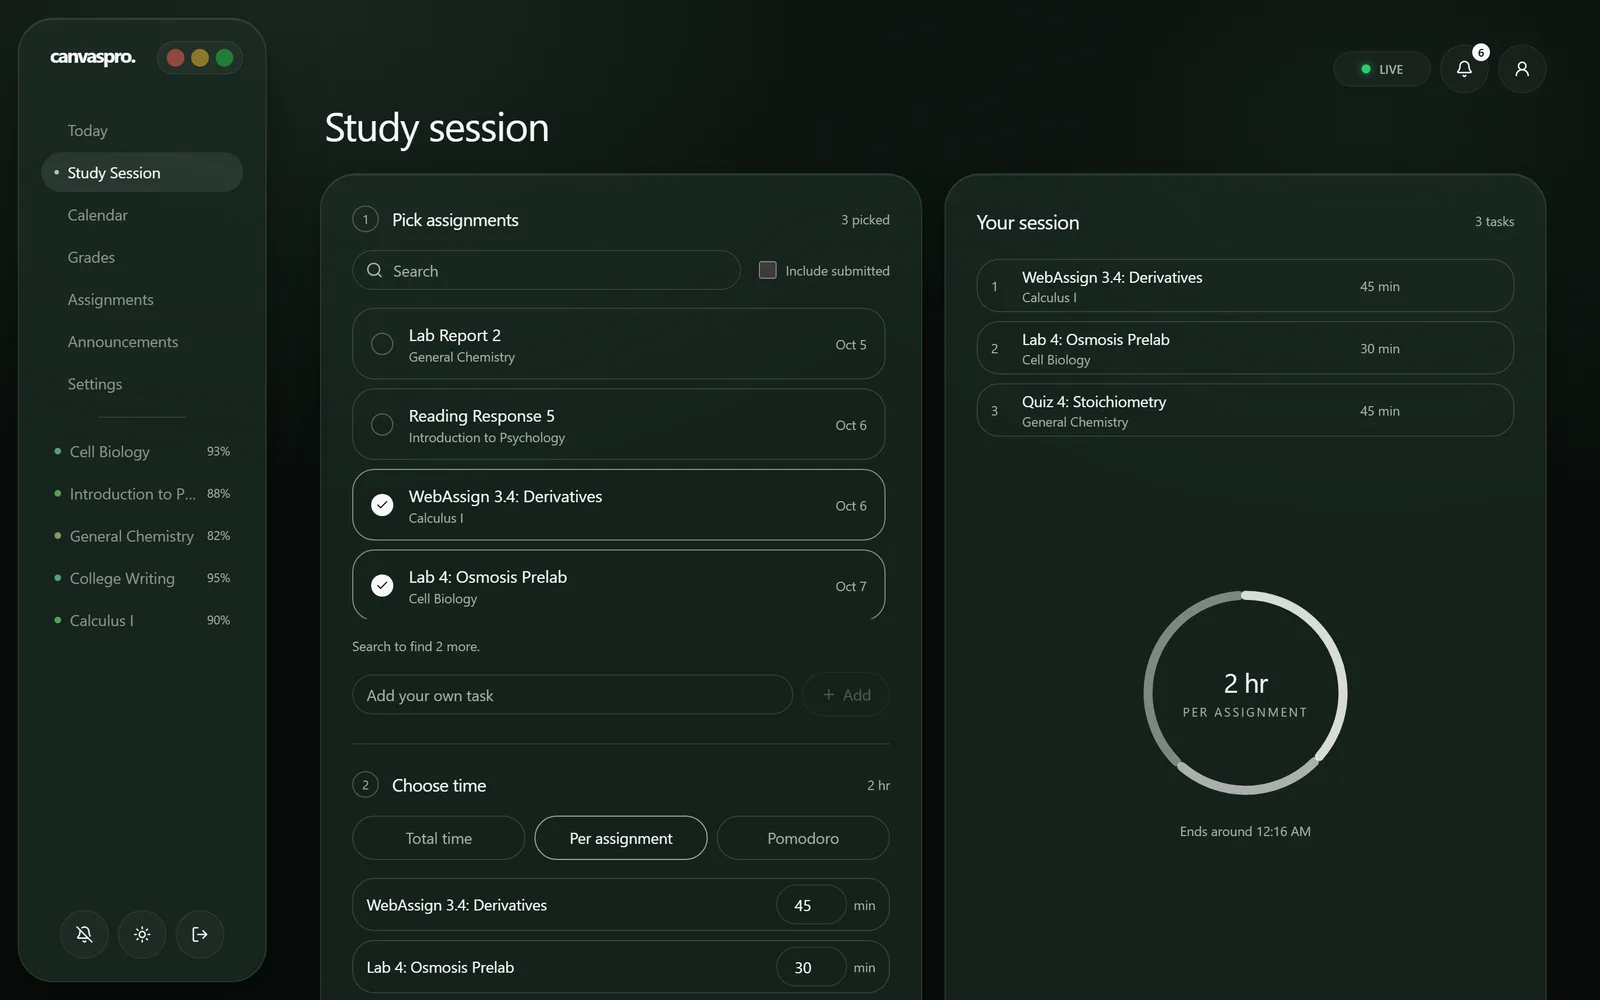
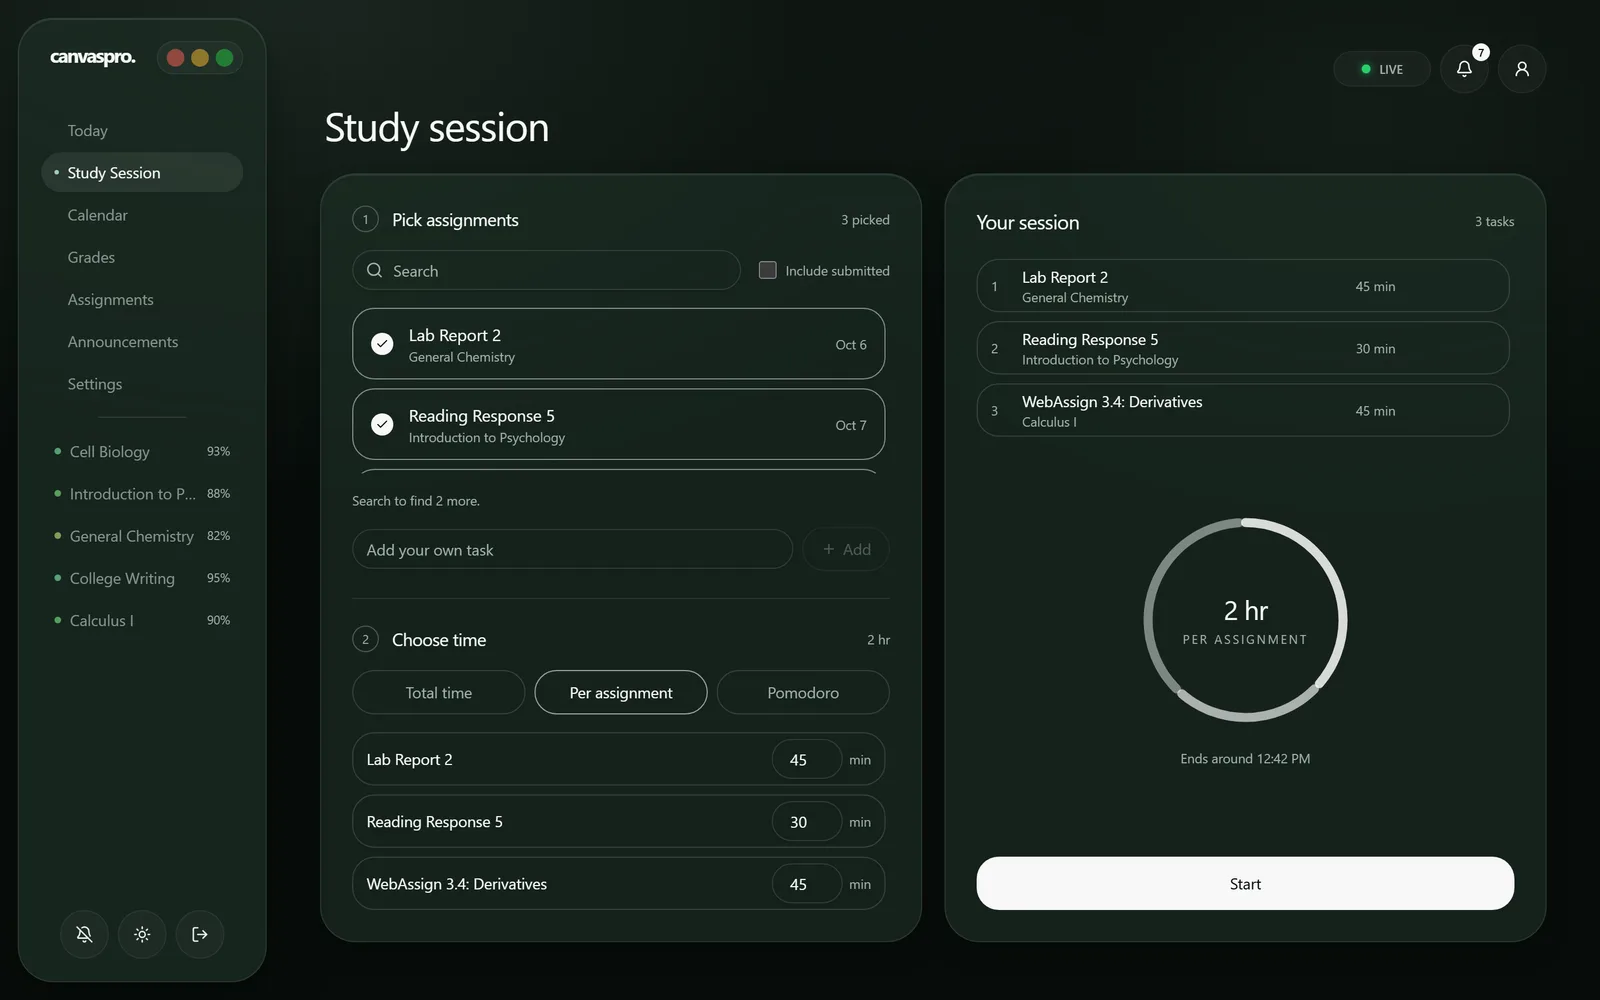
Study session: both cards fit the window on desktop; recapture homepage screenshot

diff --git a/src/routes/_authenticated/study-session.tsx b/src/routes/_authenticated/study-session.tsx
@@ -817,10 +817,10 @@ function StudySessionPage() {
         </div>
       )}
 
-      <div className="grid items-stretch gap-5 lg:grid-cols-2">
+      <div className="grid items-stretch gap-5 lg:h-[calc(100dvh-13rem)] lg:min-h-[36rem] lg:grid-cols-2">
         {/* Left: what to study, then how long. */}
-        <GlassCard className="premium-reveal space-y-6">
-          <section className="space-y-4">
+        <GlassCard className="premium-reveal flex flex-col gap-6 lg:min-h-0">
+          <section className="flex min-h-0 flex-1 flex-col gap-4">
             <StepHeading
               step={1}
               title="Pick assignments"
@@ -863,7 +863,7 @@ function StudySessionPage() {
             ) : candidates.length === 0 ? (
               <p className="py-8 text-center text-sm text-muted-foreground">No matches.</p>
             ) : (
-              <ul className="max-h-[17.5rem] space-y-2 overflow-y-auto pr-1">
+              <ul className="max-h-[17.5rem] space-y-2 overflow-y-auto pr-1 lg:max-h-none lg:min-h-0 lg:flex-1">
                 {candidates.map((assignment) => {
                   const item = canvasItem(assignment);
                   const isSelected = selectedIds.has(item.id);
@@ -938,9 +938,9 @@ function StudySessionPage() {
             </form>
           </section>
 
-          <div className="h-px bg-foreground/10" aria-hidden="true" />
+          <div className="h-px shrink-0 bg-foreground/10" aria-hidden="true" />
 
-          <section className="space-y-4">
+          <section className="shrink-0 space-y-4">
             <StepHeading step={2} title="Choose time" trailing={plan} />
 
             <div className="grid grid-cols-3 gap-2" role="radiogroup" aria-label="How to time it">
@@ -989,7 +989,7 @@ function StudySessionPage() {
                   Pick assignments first.
                 </p>
               ) : (
-                <ul className="space-y-2">
+                <ul className="max-h-48 space-y-2 overflow-y-auto pr-1">
                   {selected.map((item) => (
                     <li
                       key={item.id}
@@ -1084,7 +1084,7 @@ function StudySessionPage() {
 
         {/* Right: the session, in order, ready to start. */}
         <GlassCard
-          className="premium-reveal flex flex-col"
+          className="premium-reveal flex flex-col lg:min-h-0"
           title="Your session"
           action={
             <span className="text-xs tabular-nums text-muted-foreground">
@@ -1097,7 +1097,7 @@ function StudySessionPage() {
               Nothing picked yet.
             </p>
           ) : (
-            <ol className="space-y-2">
+            <ol className="space-y-2 pr-1 lg:max-h-[45%] lg:overflow-y-auto">
               {plannedItems.map((item, index) => (
                 <li
                   key={item.id}
@@ -1152,7 +1152,7 @@ function StudySessionPage() {
             </ol>
           )}
 
-          <div className="flex flex-1 flex-col items-center justify-center gap-3 py-8">
+          <div className="flex min-h-0 flex-1 flex-col items-center justify-center gap-3 py-6">
             <SessionRing
               segments={
                 timeMode === "per"
